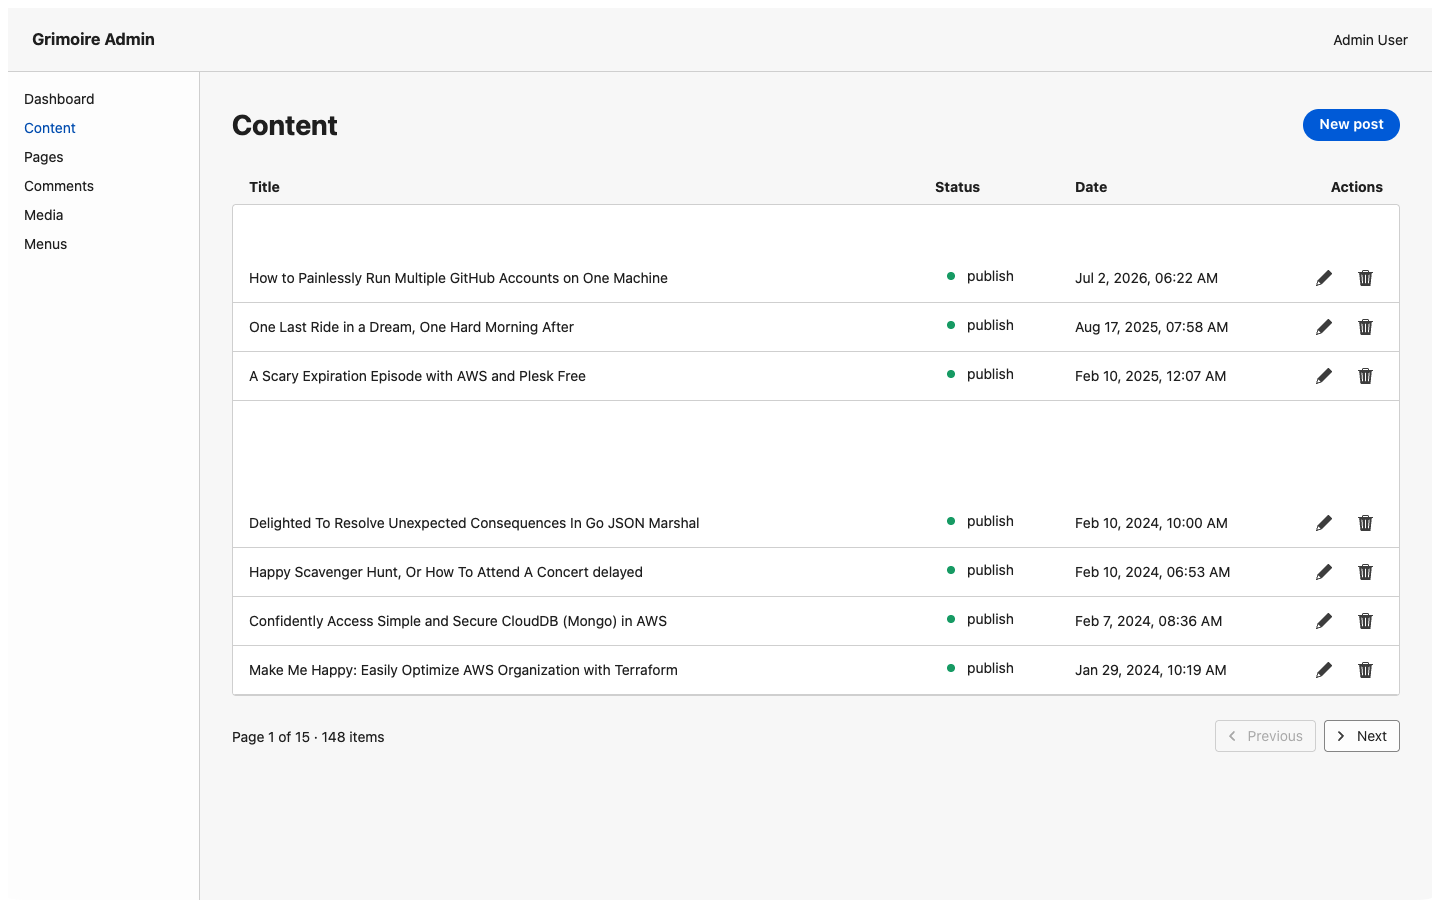
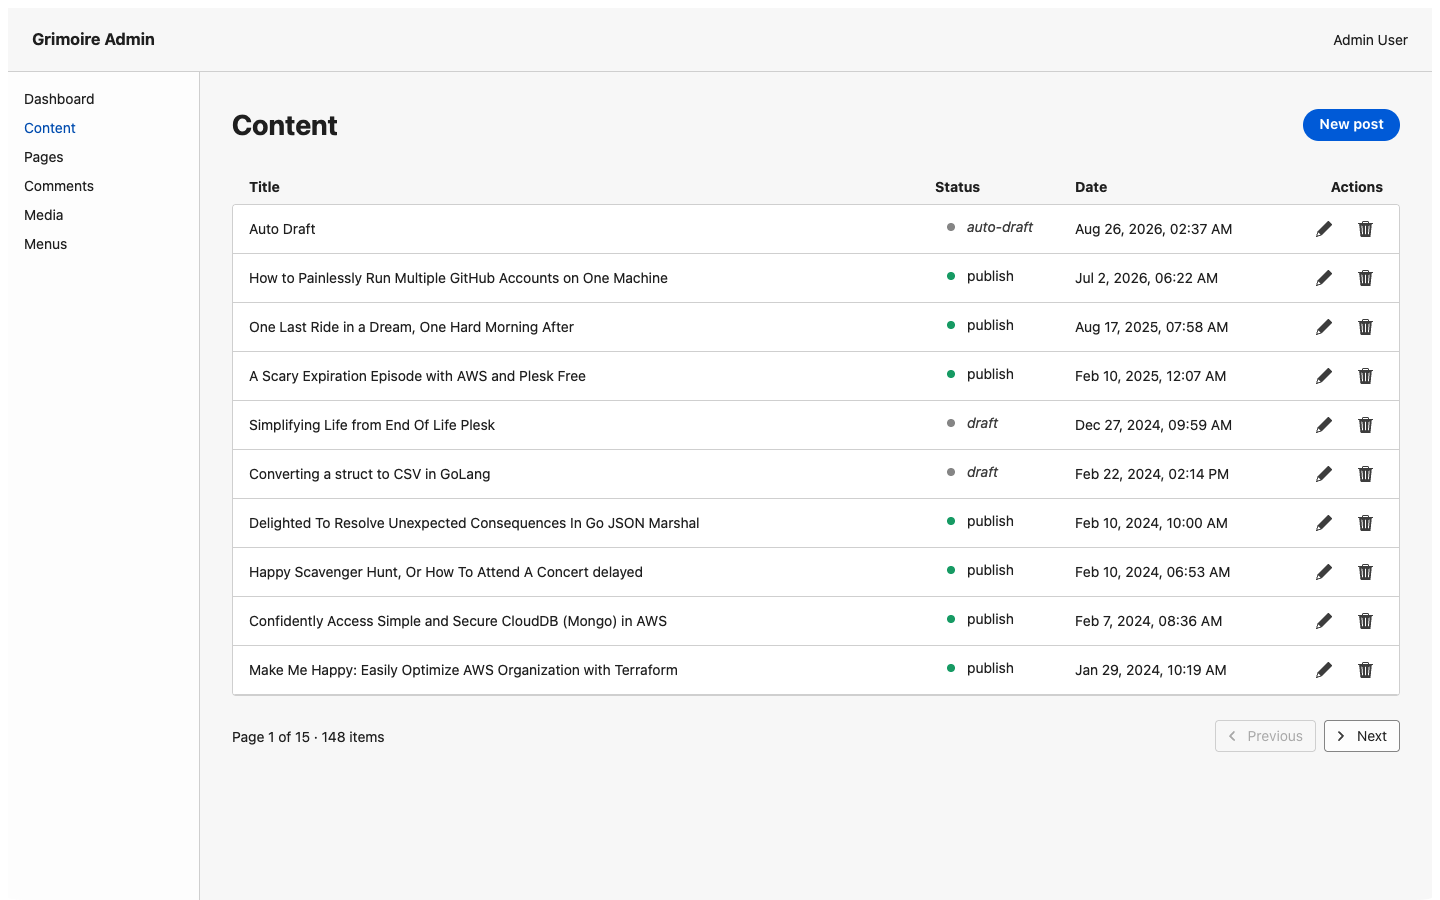
docs: correct WordPress compatibility tour review findings
Address 4 Important + several Minor findings from mandatory review of the
WordPress compatibility visual tour:

- docs/compatibility.md: refresh the legacy schema table so postmeta is
  documented as read/written, users documents real auth (not just display),
  and comments/commentmeta/usermeta are listed alongside the previously
  undocumented native sessions table.
- Recapture both REST response screenshots with the local capture hostname
  replaced by a placeholder domain (wordpress.example.test /
  grimoire.example.test) so no 127.0.0.1/localhost detail is exposed, while
  preserving the real JSON structure and values.
- Correct the media library "What matches" prose and alt text: only one of
  WordPress's 3 search results (git_user) is actually attached to the
  selected post, the other two are unattached; the grimoire screenshot's
  single-attachment view is disclosed as a capture-time DOM adjustment
  (parentId is accepted by the API but ignored by the admin UI), not a
  working product filter.
- Recapture the grimoire posts-list screenshot without blank/removed-row
  bands and rewrite the posts-list "What matches"/"Current limits" prose to
  state plainly that the two screenshots are non-equivalent scopes (WordPress
  145 published-only vs grimoire's real unfiltered 148-item first page),
  not an apples-to-apples count comparison.

Also: remove the unsupported "and categories" claim from the single-post
[…]

diff --git a/docs/wordpress-compatibility-tour.md b/docs/wordpress-compatibility-tour.md
@@ -17,39 +17,41 @@ compatibility guide.
 
 ## Public home
 
-| WordPress | Grimoire |
+| WordPress | grimoire |
 | --- | --- |
-| ![WordPress public home showing published posts](./images/compatibility/public-home-wordpress.png) | ![Grimoire public home showing the same published posts](./images/compatibility/public-home-grimoire.png) |
+| ![WordPress public home showing published posts](./images/compatibility/public-home-wordpress.png) | ![grimoire public home showing the same published posts](./images/compatibility/public-home-grimoire.png) |
 
 **What matches:** Both list the same published posts, in the same order,
-with the same titles, excerpts, and links.
+with the same titles, links, and excerpt text.
 
 **Intentional differences:** The products use different themes and page
-chrome.
+chrome. Excerpt truncation (word count, ellipsis placement) is approximated
+per product and may not be byte-identical even when the underlying source
+excerpt is the same.
 
 **Current limits:** This pair does not claim plugin or theme-rendering
 parity.
 
 ## Single published post
 
-| WordPress | Grimoire |
+| WordPress | grimoire |
 | --- | --- |
-| ![WordPress single post view](./images/compatibility/single-published-post-wordpress.png) | ![Grimoire single post view of the same post](./images/compatibility/single-published-post-grimoire.png) |
+| ![WordPress single post view](./images/compatibility/single-published-post-wordpress.png) | ![grimoire single post view of the same post](./images/compatibility/single-published-post-grimoire.png) |
 
-**What matches:** Same slug, title, body, publish date, and categories.
+**What matches:** Same slug, title, body, and publish date.
 
 **Intentional differences:** Typography and theme chrome differ; no plugin
 rendering is implied.
 
-**Current limits:** Grimoire's public router only supports flat `/{slug}`
+**Current limits:** grimoire's public router only supports flat `/{slug}`
 routes. It does not implement WordPress's configurable, date-based post
 permalink structures (for example WordPress's `/YYYY/MM/DD/slug/`).
 
 ## Category archive
 
-| WordPress | Grimoire |
+| WordPress | grimoire |
 | --- | --- |
-| ![WordPress category archive](./images/compatibility/category-archive-wordpress.png) | ![Grimoire category archive for the same category](./images/compatibility/category-archive-grimoire.png) |
+| ![WordPress category archive](./images/compatibility/category-archive-wordpress.png) | ![grimoire category archive for the same category](./images/compatibility/category-archive-grimoire.png) |
 
 **What matches:** Same category membership, order, titles, and post links.
 
@@ -63,9 +65,9 @@ nested categories.
 
 ## Admin dashboard
 
-| WordPress | Grimoire |
+| WordPress | grimoire |
 | --- | --- |
-| ![WordPress admin dashboard](./images/compatibility/admin-dashboard-wordpress.png) | ![Grimoire admin dashboard](./images/compatibility/admin-dashboard-grimoire.png) |
+| ![WordPress admin dashboard](./images/compatibility/admin-dashboard-wordpress.png) | ![grimoire admin dashboard](./images/compatibility/admin-dashboard-grimoire.png) |
 
 **What matches:** Both are the logged-in landing page for managing the same
 site's content.
@@ -73,56 +75,78 @@ site's content.
 **Intentional differences:** WordPress admin and the embedded Adobe React
 Spectrum admin use different navigation, widgets, and visual design.
 
-**Current limits:** None beyond the navigation/widget differences already
-noted.
+**Current limits:** Both screenshots have the logged-in user's real display
+name replaced with the placeholder "Admin User" before capture, and the
+WordPress screenshot has its "Recent Comments" activity widget removed —
+both are in-browser redactions to avoid showing real names, not product
+differences. The WordPress dashboard's other widgets (At a Glance, Quick
+Draft, site health) are otherwise shown unmodified.
 
 ## Posts list/editor
 
-| WordPress | Grimoire |
+| WordPress | grimoire |
 | --- | --- |
-| ![WordPress posts list, published only](./images/compatibility/posts-list-editor-wordpress.png) | ![Grimoire posts list, published only](./images/compatibility/posts-list-editor-grimoire.png) |
+| ![WordPress posts list filtered to published posts (145 items)](./images/compatibility/posts-list-editor-wordpress.png) | ![grimoire posts list, unfiltered, page 1 of 15 (148 items across all statuses)](./images/compatibility/posts-list-editor-grimoire.png) |
 
-**What matches:** Both show the published post list with entry points to
-edit the same post.
+**What matches:** Both are the admin list view with entry points to edit the
+same underlying posts, backed by the same database.
 
 **Intentional differences:** Editing controls and layout differ; this
 capture does not demonstrate saving, autosave, or Gutenberg block-editor
 parity.
 
-**Current limits:** WordPress's list uses its native `?post_status=publish`
-filter. grimoire's admin posts list has no equivalent published-only filter
-today, so this screenshot's published-only view reflects a capture-time
-adjustment rather than a real product control.
+**Current limits:** These two screenshots show different scopes and are
+**not** an apples-to-apples count comparison. The WordPress screenshot uses
+its native `?post_status=publish` filter (145 published posts). grimoire's
+admin posts list has no equivalent status filter today, so its screenshot
+shows the real, unfiltered first page of the list as the product actually
+renders it: page 1 of 15, 148 total items, mixing `publish`, `draft`, and
+`auto-draft` rows. The logged-in user's display name is replaced with
+"Admin User" in both screenshots (redaction only, not a product
+difference).
 
 ## Media library
 
-| WordPress | Grimoire |
+| WordPress | grimoire |
 | --- | --- |
-| ![WordPress media library search results](./images/compatibility/media-library-wordpress.png) | ![Grimoire media library filtered to the same post's attachments](./images/compatibility/media-library-grimoire.png) |
+| ![WordPress media library search results for "git" (3 attachments, 2 unattached)](./images/compatibility/media-library-wordpress.png) | ![grimoire media library DOM-filtered to the one attachment parented to the selected post](./images/compatibility/media-library-grimoire.png) |
 
-**What matches:** Both show existing, real attachments from the same
-uploads directory related to the selected post.
+**What matches:** Both show real, existing attachments from the same
+uploads directory. `git_user` — the one attachment actually parented to the
+selected post — appears in both screenshots.
 
 **Intentional differences:** Layout and metadata presentation differ; no
 upload or REST-write capability is implied.
 
-**Current limits:** WordPress's admin media search (`?s=`) is free-text and
-returns 3 matching attachments here. grimoire's admin media page has no
-free-text search or working attachment-scoping URL parameter today — its
-`parentId` query parameter is accepted by the backend API but is not read by
-the admin page, so this screenshot's single-attachment view reflects a
-capture-time adjustment rather than a real product control.
+**Current limits:** These two screenshots use different, non-equivalent
+filters. The WordPress screenshot uses its native free-text admin search
+(`?s=git`), which returns 3 attachments matching that text — only one of
+them (`git_user`) is attached to the selected post; the other two
+(`github-routing-diagram`, `github_hacker`) are unattached. grimoire's admin
+media page has no free-text search, and its `parentId` query parameter is
+accepted by the backend API but is not read by the admin page, so its
+unfiltered media library (well over a thousand attachments in this database)
+cannot be narrowed by URL alone. To make a legible, single-attachment
+comparison possible, the grimoire screenshot's DOM was edited before capture
+to remove every attachment card except `git_user`'s — it is not a working
+product filter and is disclosed here as a capture-time adjustment, not a
+grimoire feature.
 
 ## Representative REST response
 
-| WordPress | Grimoire |
+| WordPress | grimoire |
 | --- | --- |
-| ![WordPress REST API response for the selected post](./images/compatibility/rest-response-wordpress.png) | ![Grimoire REST API response for the same post](./images/compatibility/rest-response-grimoire.png) |
+| ![WordPress REST API response for the selected post](./images/compatibility/rest-response-wordpress.png) | ![grimoire REST API response for the same post](./images/compatibility/rest-response-grimoire.png) |
 
 **What matches:** Both serve `GET /wp-json/wp/v2/posts?slug=how-to-painlessly-run-multiple-github-accounts-on-one-machine&status=publish`
 and return the same post's fields.
 
 **Intentional differences:** Key order and some optional fields may differ.
+Both responses have their local capture hostname replaced in-page with a
+placeholder domain (`wordpress.example.test` / `grimoire.example.test`)
+before capture so no local network detail is shown; only the URL host was
+changed, all other JSON structure and values are exactly as returned by each
+server.
 
 **Current limits:** One `GET` request is not a claim of total REST API
 parity; see [`./compatibility.md`](./compatibility.md) for the full

diff --git a/docs/compatibility.md b/docs/compatibility.md
@@ -7,19 +7,26 @@ a WordPress-compatible admin and API. See
 [`./wordpress-compatibility-tour.md`](./wordpress-compatibility-tour.md) for
 a visual, side-by-side comparison.
 
-## Tables replicated in M1
+## WordPress tables used
 
 With the configured `table_prefix` (default `wp_`):
 
 | Table | Used for |
 |-------|----------|
-| `posts` | posts + pages (`post_type` in `post`,`page`; `post_status='publish'`) |
-| `postmeta` | reserved (schema present; not read in M1) |
+| `posts` | posts + pages (public read: `post_status='publish'`; admin/REST: full CRUD across statuses, revisions, and scheduling) |
+| `postmeta` | read and written — featured-image and attachment metadata, and other post/page meta |
 | `options` | `blogname`, `blogdescription`, … site settings |
 | `terms` | category names + slugs |
 | `term_taxonomy` | taxonomy rows (`category`) + counts |
 | `term_relationships` | post ↔ taxonomy links |
-| `users` | author display (schema present) |
+| `users` | full WordPress-compatible auth: `user_pass`, `user_email`, and related columns are read and checked for login, not just displayed |
+| `usermeta` | user metadata (schema present, WordPress-compatible) |
+| `comments` | comment storage and moderation workflow (read + write) |
+| `commentmeta` | comment metadata (read + write) |
+
+grimoire also has its own native `sessions` table (not part of the WordPress
+schema) for its own session/CSRF-token management; it is never read from or
+written to an existing WordPress database.
 
 Type mappings from the WordPress MySQL schema are translated per vendor
 (`BIGINT(20) UNSIGNED`→`BIGSERIAL`/`INTEGER`, `LONGTEXT`→`TEXT`,
